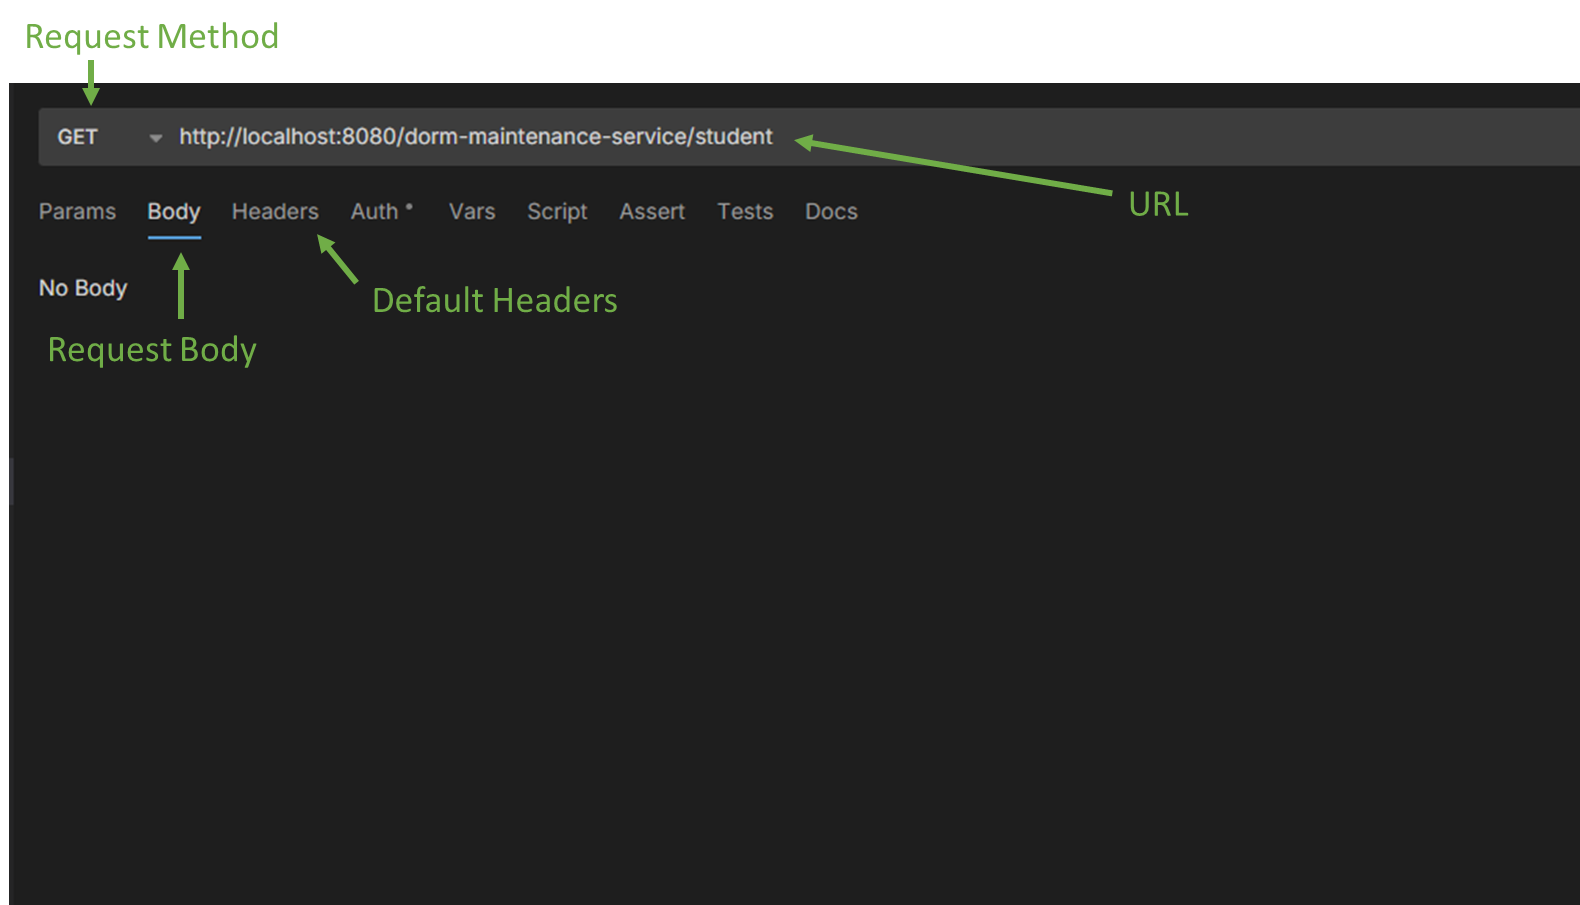
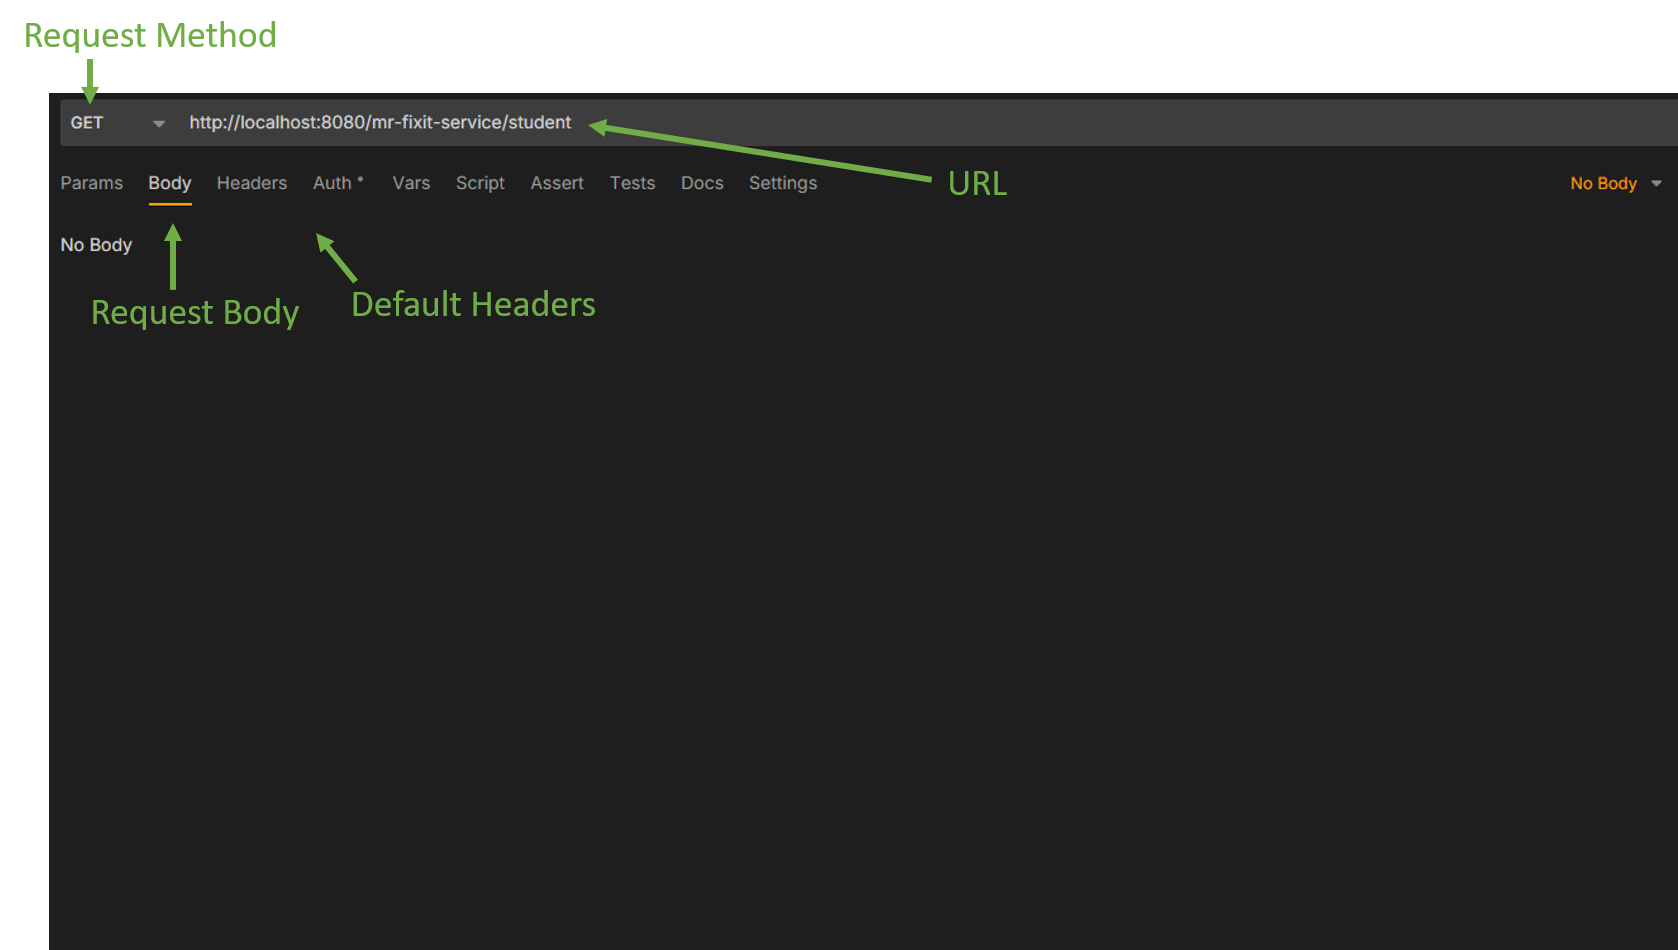
update with mr-fixit-service info and new directory structure

Changed region(s): [[0.0, 0.0, 1.0, 1.0], [0.7133, 0.2166, 0.7443, 0.2475]]

diff --git a/API/class-0/class-0-homework.md b/API/class-0/class-0-homework.md
@@ -2,7 +2,9 @@
 
 ## Purpose / Objectives
 > The purpose of this assignment is to get you familiar with the client-server concept, by making HTTP requests using a variety of HTTP methods.
-> #### Sorry, no coding yet.
+> ### Sorry, no coding yet.
+> \*laughs in evil\*
+
 
 ## Description
 
@@ -10,30 +12,29 @@ Perform the following tasks in the demo [mr-fix-it repo](https://github.com/WSU-
 
 ### 1. Create a branch off of `put-work-order` and name the branch your last name
 
-### 2. Create a directory under `/bruno` named `homework-0`
+### 2. Start and run the demo app
 
-### 3. Start and run the demo app
-
-### 4. Open Bruno and open the `mr-fixit-service` collection
+### 3. Open Bruno and open the `mr-fixit-service` collection
 - `/mr-fix-it-service/bruno/mr-fix-it-service`
 
-### 5. Get all work orders - GET
+### 4. Get all work orders - GET
 1. Open the `GET` request to get all work orders
-    - `"/bruno/mr-fixit-service/work_order/Get All Work Orders.bru"`
+   - In Bruno: `mr-fixit-service > work_order > Get All Work Orders.bru`
 2. Send the request and verify you get a 200 response
-3. Save a clearly named screenshot of Bruno including the response, URL, request method, and response status code under `/bruno/homework-0`
+3. In mr-fixit-service: save a clearly named screenshot of Bruno including the response, URL, request method, and response status code in `/homework/homework-0`
 
-### 6. Create a new work order - POST
-1. Modify the request body in `"/bruno/work_order/Create Work Order.bru"` to create a new work order for your favorite super hero
+### 5. Create a new work order - POST
+1. In Bruno: modify the request body in `mr-fixit-service > work_order > Create Work Order.bru` to create a new work order for your favorite super hero
 2. Send the request and verify you get a 200 response
-3. Save a clearly named screenshot of Bruno including the response, URL, request method, and response status code under `/bruno/homework-0`
+3. In mr-fixit-service: save a clearly named screenshot of Bruno including the response, URL, request method, and response status code in `/homework/homework-0`
 
-### 7. Add a new request to update a work order - PUT
-1. Create a new and well-named PUT request under `/bruno/mr-fixit-service/work_order`
-2. Add a request body that will update the description of the new work order you created in Step 6
-3. Save a clearly named screenshot of Bruno including the response, URL, request method, and response status code under `/bruno/homework-0`
+### 6. Add a new request to update a work order - PUT
+1. In Bruno: create a new and well-named PUT request under `mr-fixit-service > work_order`
+2. Add a request body that will update the description of the new work order you created in Step 5
+3. Send the request and verify you get a 200 response
+4. In mr-fixit-service: save a clearly named screenshot of Bruno including the response, URL, request method, and response status code in `/homework/homework-0`
 
-### 8. git commit, add, and push your changes to your branch upstream
+### 7. git add, commit, and push your changes to your branch upstream
     
 
 Here is an example of the required components in the screenshot:
@@ -44,7 +45,7 @@ Here is an example of the required components in the screenshot:
 
 Assignment score: X / 5 points
 
--   `[ ]` Project runs successfully
+-   `[ ]` mr-fix-service runs successfully
 -   `[ ]` Screenshot of GET request for retrieving all work orders is saved in correct directory with 200 response status code, URL, response body, and request method visible
 -   `[ ]` Screenshot of POST request for adding new work order is saved in correct directory with 200 response status code, URL, response body showing super hero values, and request method visible
 -   `[ ]` Screenshot of PUT request for updating newly created work order is saved in correct directory with 200 response status code, URL, response body showing updated description, and request method visible

diff --git a/API/class-0/class-0-overview.md b/API/class-0/class-0-overview.md
@@ -184,7 +184,7 @@ The base URL generally consists of the protocol, host, port, and server context 
 
 Here is what a base URL looks like for the Mr. Fix It service:
 
-`http://localhost:8080/dorm-maintenance-service`
+`http://localhost:8080/mr-fixit-service`
 
 This doesn't really get you anywhere useful though. You need to add to the _path_. This part of the path is generally considered the resource. In our case, the resource is the students. 
 A resource is simply whatever you are trying to access or modify in your request.  
@@ -195,7 +195,7 @@ You already started a path with the server context path, but let's add the resou
 
 And here's what it would really look like:
 
-`http://localhost:8080/dorm-maintenance-service/student`
+`http://localhost:8080/mr-fixit-service/student`
 
 An address is super useful - the Java service knows exactly where you want to go, but it needs more information sent in the request to understand what you want to do once you're there.
 
@@ -287,9 +287,4 @@ Next class you'll lay the groundwork for creating the JSON resources your client
 - [JPA - Introduction](https://www.geeksforgeeks.org/java/jpa-introduction/)
 - [Simplifying Data Access in Java: A Comparative Look at DAO and Spring Data JPA](https://medium.com/@ksaquib/simplifying-data-access-in-java-a-comparative-look-at-dao-and-spring-data-jpa-6c3d56fd0c22)
 - [Accessing Data with JPA](https://spring.io/guides/gs/accessing-data-jpa)
-
-
-
-
-
 
